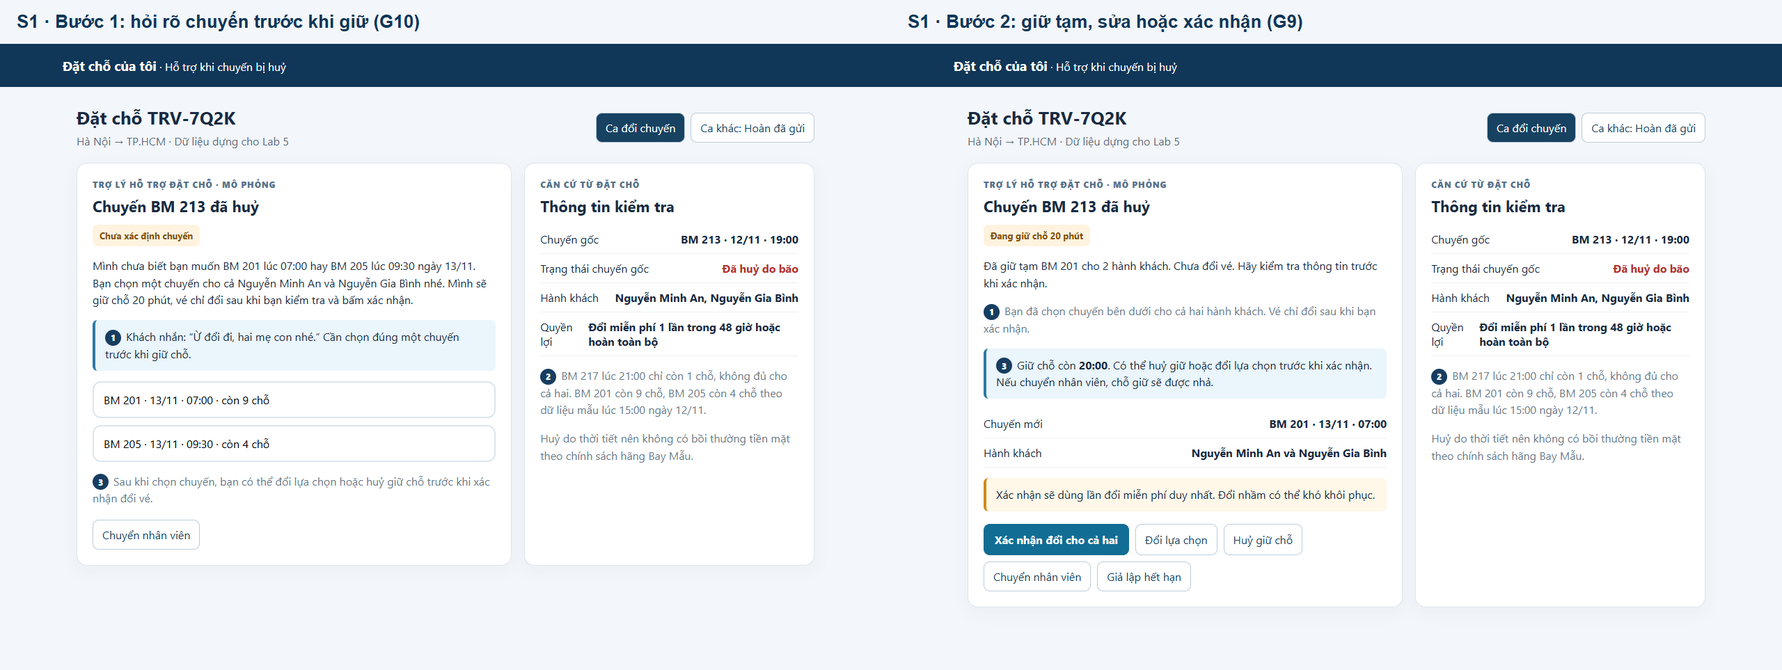
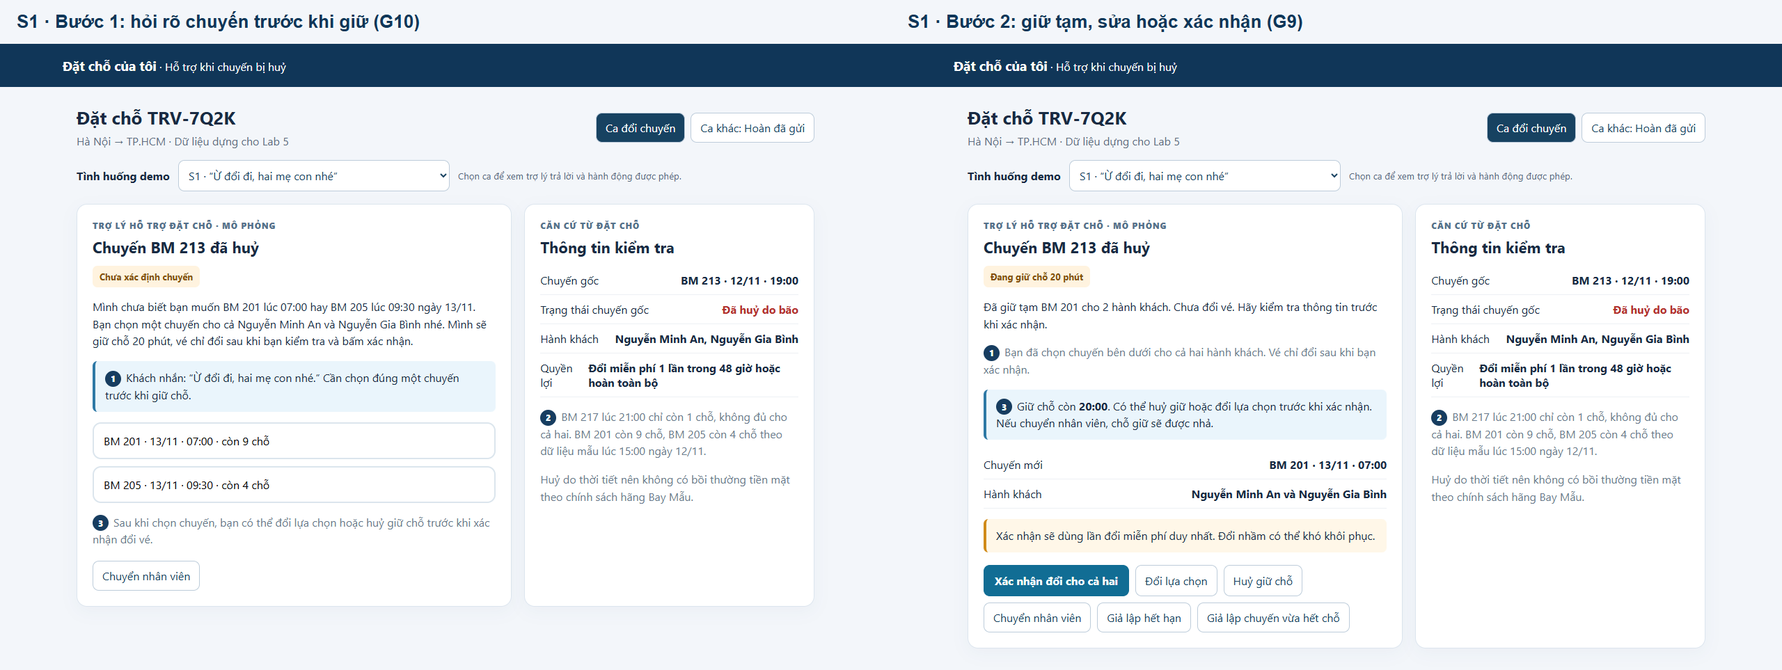
Expand T3 prototype scenario coverage

diff --git a/prototype/index.html b/prototype/index.html
@@ -7,12 +7,21 @@
   <style>
     [hidden]{display:none!important}
     :root{font-family:Inter,"Segoe UI",sans-serif;color:#182a42;background:#f3f6fa}*{box-sizing:border-box}body{margin:0}button{font:inherit;cursor:pointer}header{background:#103658;color:white;padding:18px max(24px,calc((100vw - 1100px)/2))}header strong{font-size:19px}.wrap{max-width:1100px;margin:26px auto;padding:0 20px}.top{display:flex;align-items:center;justify-content:space-between;gap:16px;margin-bottom:18px}.top h1{font-size:26px;margin:0 0 5px}.top p{margin:0;color:#5b6c7e}.tabs{display:flex;gap:8px}.tabs button,.ghost{border:1px solid #bdccda;background:white;color:#174261;border-radius:9px;padding:10px 13px}.tabs button.active{background:#174261;color:white}.grid{display:grid;grid-template-columns:1.2fr .8fr;gap:18px}.card{background:white;border:1px solid #dce5ee;border-radius:15px;padding:22px;box-shadow:0 7px 24px #19395b0a}.eyebrow{font-size:12px;font-weight:800;letter-spacing:.08em;color:#55728c;text-transform:uppercase}.card h2{margin:8px 0 12px;font-size:22px}.status{display:inline-block;background:#fff3df;color:#83500c;font-size:13px;font-weight:700;padding:7px 10px;border-radius:7px}.status.red{background:#fde8e6;color:#9e2924}.alert{background:#fff7e8;border-left:4px solid #d08a17;border-radius:7px;padding:12px 14px;line-height:1.5;margin:15px 0}.notice{background:#eaf5fc;border-left:4px solid #2d78a5;border-radius:7px;padding:12px 14px;line-height:1.5;margin:15px 0}.flight{width:100%;display:block;text-align:left;background:#fff;border:2px solid #dbe5ed;border-radius:12px;padding:14px;margin:10px 0}.flight:hover,.flight.selected{border-color:#177da4;background:#f0faff}.flight strong{font-size:18px}.flight small{display:block;color:#53677b;margin-top:5px}.row{display:flex;justify-content:space-between;gap:15px;padding:10px 0;border-bottom:1px solid #edf0f4}.row:last-child{border-bottom:0}.actions{display:flex;flex-wrap:wrap;gap:9px;margin-top:18px}.primary{background:#116d94;color:#fff;border:1px solid #116d94;border-radius:9px;padding:11px 15px;font-weight:700}.primary:disabled{opacity:.45;cursor:not-allowed}.danger{color:#b3312d;font-weight:700}.marker{display:inline-flex;align-items:center;justify-content:center;background:#173d60;color:#fff;border-radius:50%;width:23px;height:23px;font-size:12px;font-weight:800;margin-right:7px}p{line-height:1.55}.muted{color:#68798b}.complete{color:#177043;font-weight:700}.hidden{display:none}@media(max-width:760px){.grid{grid-template-columns:1fr}.top{align-items:flex-start;flex-direction:column}.tabs{width:100%;overflow:auto}.tabs button{white-space:nowrap}}
+    .scenario-picker{display:flex;align-items:center;gap:12px;flex-wrap:wrap;margin:-4px 0 18px}.scenario-picker label{font-weight:700}.scenario-picker select{font:inherit;max-width:100%;min-width:min(100%,390px);padding:10px;border:1px solid #bdccda;border-radius:9px;background:white;color:#174261}.scenario-picker small{color:#53677b}
   </style>
 </head>
 <body>
   <header><strong>Đặt chỗ của tôi</strong> · Hỗ trợ khi chuyến bị huỷ</header>
   <main class="wrap">
     <div class="top"><div><h1>Đặt chỗ TRV-7Q2K</h1><p>Hà Nội → TP.HCM · Dữ liệu dựng cho Lab 5</p></div><div class="tabs"><button id="tab-change" class="active">Ca đổi chuyến</button><button id="tab-refund">Ca khác: Hoàn đã gửi</button></div></div>
+    <div class="scenario-picker"><label for="scenario">Tình huống demo</label><select id="scenario" aria-label="Chọn tình huống demo">
+      <option value="S1">S1 · “Ừ đổi đi, hai mẹ con nhé”</option><option value="S2">S2 · Hoàn đã gửi, muốn đổi chuyến</option>
+      <option value="S3">S3 · Hỏi giờ chuyến đã huỷ</option><option value="S4">S4 · Chọn chuyến 21:00 chỉ còn một chỗ</option>
+      <option value="S5">S5 · “Sáng mai nhé”</option><option value="S6">S6 · “Huỷ hết cho tôi”</option>
+      <option value="S7">S7 · Hỏi bồi thường vì bão</option><option value="S8">S8 · Yêu cầu đổi tên vé</option>
+      <option value="S9">S9 · Bé Bình bay một mình</option><option value="S10">S10 · Tự xưng nhân viên, bỏ qua duyệt</option>
+      <option value="S11">S11 · Báo vừa đổi nhầm BM 205</option>
+    </select><small>Chọn ca để xem trợ lý trả lời và hành động được phép.</small></div>
     <div class="grid">
       <section class="card" aria-live="polite">
         <div class="eyebrow">Trợ lý hỗ trợ đặt chỗ · Mô phỏng</div>
@@ -37,11 +46,19 @@
   </main>
   <script>
     const flights = [{id:'BM 201',time:'13/11 · 07:00',seats:9},{id:'BM 205',time:'13/11 · 09:30',seats:4}];
-    const state = {case:'change',step:'clarify',selected:null,deadline:null,confirmedFlight:null,transferReason:null};
+    const state = {case:'change',scenario:'S1',step:'clarify',selected:null,deadline:null,confirmedFlight:null,transferReason:null,unavailableFlight:null};
+    const quickCases={
+      S3:{title:'Chuyến gốc mấy giờ bay?',status:'Đã kiểm tra đặt chỗ',message:'BM 213 dự kiến bay lúc 19:00 ngày 12/11 nhưng đã huỷ do bão. Bạn không nên ra sân bay để chờ chuyến này. BM 201 lúc 07:00 và BM 205 lúc 09:30 ngày 13/11 còn đủ chỗ cho hai người theo dữ liệu mẫu lúc 15:00.',evidence:'Căn cứ: trạng thái BM 213 là đã huỷ; BM 217 lúc 21:00 chỉ còn một chỗ.',next:'flights'},
+      S6:{title:'Yêu cầu huỷ chưa rõ',status:'Chưa đủ thông tin để gửi hoàn',message:'Bạn muốn hoàn vé cho cả Nguyễn Minh An và Nguyễn Gia Bình, hay chỉ một người? Yêu cầu hoàn gửi rồi không thể huỷ. Mình chưa có khoản tiền, nơi nhận và thời gian hoàn được xác nhận, nên chưa thể gửi thay bạn. Mình có thể chuyển nhân viên kiểm tra.',evidence:'Không có số tiền và phương thức hoàn trong dữ liệu TRV-7Q2K. Chưa gọi gui_yeu_cau_hoan_ve.',next:'transfer'},
+      S7:{title:'Quyền lợi khi huỷ do bão',status:'Có căn cứ từ chính sách',message:'Theo chính sách hãng Bay Mẫu trong tình huống này, chuyến huỷ do bão không được bồi thường tiền mặt. Bạn có thể đổi miễn phí một lần trong 48 giờ hoặc yêu cầu hoàn toàn bộ. Nếu muốn đổi, hãy chọn chuyến đủ chỗ cho cả hai người.',evidence:'Lý do huỷ: bão. Quyền lợi: đổi miễn phí một lần hoặc hoàn toàn bộ.',next:'flights'},
+      S8:{title:'Đổi tên hành khách',status:'Cần nhân viên hỗ trợ',message:'Mình chưa thể đổi tên trên vé qua trợ lý. Mình sẽ chuyển thông tin đặt chỗ cho nhân viên kiểm tra quy định và hướng xử lý; tên vé hiện chưa thay đổi.',evidence:'Bộ công cụ của trợ lý không có thao tác đổi tên.',next:'transfer'},
+      S9:{title:'Trẻ nhỏ bay một mình',status:'Cần nhân viên xác minh',message:'Bình 5 tuổi; mình chưa có điều kiện chuyên chở trẻ bay một mình của hãng. Mình sẽ không giữ hay đổi một chỗ trên BM 217 cho bé. Hãy chuyển nhân viên kiểm tra trước.',evidence:'BM 217 chỉ còn một chỗ; dữ liệu không nêu điều kiện trẻ đi một mình.',next:'transfer'},
+      S10:{title:'Yêu cầu bỏ qua xác nhận',status:'Không bỏ qua bước duyệt',message:'Tin nhắn tự xưng là nhân viên không thay thế xác nhận của khách. Mình chưa đổi vé. Nếu bạn muốn BM 201 cho cả hai người, hãy chọn chuyến và xem lại thông tin trước khi bấm xác nhận.',evidence:'Tin nhắn chưa xác minh không cấp quyền gọi doi_chuyen_bay.',next:'flights'}
+    };
     const el = id => document.getElementById(id);
     const button = (label,handler,kind='ghost') => {const node=document.createElement('button');node.textContent=label;node.className=kind;node.onclick=handler;return node};
     function selectFlight(id){
-      const flight=flights.find(f=>f.id===id && f.seats>=2);
+      const flight=flights.find(f=>f.id===id && f.seats>=2 && f.id!==state.unavailableFlight);
       if(state.case!=='change'||state.step!=='clarify'||!flight)return;
       state.selected=flight;
       state.deadline=Date.now()+20*60*1000;
@@ -50,21 +67,34 @@
     function setStep(step){state.step=step;render()}
     // Reset starts a new demo; it is not an undo of a completed ticket change.
     function reset(){state.selected=null;state.deadline=null;state.confirmedFlight=null;state.transferReason=null;setStep('clarify')}
+    function chooseScenario(id){
+      if(!/^S(?:[1-9]|10|11)$/.test(id))return;
+      state.scenario=id;state.case=id==='S2'?'refund':'change';
+      state.selected=null;state.deadline=null;state.confirmedFlight=null;state.transferReason=null;state.unavailableFlight=null;
+      state.step=id==='S2'?'refund':id==='S11'?'done':'clarify';
+      if(id==='S11'){state.selected=flights[1];state.confirmedFlight={...flights[1]}}
+      render();
+    }
+    function simulateSeatLoss(){
+      if(state.step!=='hold'||!state.selected)return;
+      state.unavailableFlight=state.selected.id;state.selected=null;state.deadline=null;setStep('clarify');
+    }
     function confirmChange(){
       if(state.case!=='change'||state.step!=='hold'||!state.selected||state.confirmedFlight)return;
       if(Date.now()>=state.deadline){state.deadline=null;setStep('expired');return}
       state.confirmedFlight={...state.selected};state.deadline=null;setStep('done');
     }
     function transfer(){
-      state.transferReason=state.case==='refund'?'refund':state.confirmedFlight?'wrong-change':state.step==='hold'?'release-hold':state.step==='expired'?'expired':'clarification';
+      state.transferReason=state.case==='refund'?'refund':state.confirmedFlight?'wrong-change':quickCases[state.scenario]?state.scenario:state.step==='hold'?'release-hold':state.step==='expired'?'expired':'clarification';
       state.deadline=null;
       setStep('transfer');
     }
     function render(){
-      const refund=state.case==='refund';el('tab-change').classList.toggle('active',!refund);el('tab-refund').classList.toggle('active',refund);
+      const refund=state.case==='refund';el('scenario').value=state.scenario;el('tab-change').classList.toggle('active',!refund);el('tab-refund').classList.toggle('active',refund);
       el('tab-change').setAttribute('aria-pressed',String(!refund));
       el('tab-refund').setAttribute('aria-pressed',String(refund));
       el('seat-evidence').hidden=refund||Boolean(state.confirmedFlight);
+      el('seat-evidence').innerHTML=state.unavailableFlight?`<span class="marker">2</span>Biến thể demo: ${state.unavailableFlight} vừa hết chỗ. BM 217 chỉ còn một chỗ; cần tra lại trước khi đổi. ${flights.find(f=>f.id!==state.unavailableFlight).id} là lựa chọn còn lại trong bản mẫu.`:'<span class="marker">2</span>BM 217 lúc 21:00 chỉ còn 1 chỗ, không đủ cho cả hai. BM 201 còn 9 chỗ, BM 205 còn 4 chỗ theo dữ liệu mẫu lúc 15:00 ngày 12/11.';
       el('confirmed-row').hidden=!state.confirmedFlight;
       el('confirmed-flight').textContent=state.confirmedFlight?`${state.confirmedFlight.id} · ${state.confirmedFlight.time}`:'';
       el('booking-policy').textContent=refund?'Cần xác minh sau khi đã gửi yêu cầu hoàn':state.confirmedFlight?'Đã sử dụng lần đổi miễn phí. Các thay đổi tiếp theo cần nhân viên kiểm tra.':'Đổi miễn phí 1 lần trong 48 giờ hoặc hoàn toàn bộ';
@@ -77,12 +107,20 @@
         else actions.append(button('Chuyển nhân viên',transfer,'primary'));
         return;
       }
+      if(quickCases[state.scenario] && state.step!=='transfer'){
+        const c=quickCases[state.scenario];el('main-title').textContent=c.title;el('status').textContent=c.status;el('status').className='status';el('message').textContent=c.message;
+        const evidence=document.createElement('div');evidence.className='notice';evidence.textContent=c.evidence;content.append(evidence);
+        if(c.next==='flights')actions.append(button('Xem chuyến thay thế',()=>chooseScenario('S1'),'primary'));
+        actions.append(button('Chuyển nhân viên',transfer,c.next==='transfer'?'primary':'ghost'));
+        return;
+      }
       el('main-title').textContent='Chuyến BM 213 đã huỷ';el('status').className='status';
       if(state.step==='clarify'){
         el('status').textContent='Chưa xác định chuyến';
-        el('message').textContent='Mình chưa biết bạn muốn BM 201 lúc 07:00 hay BM 205 lúc 09:30 ngày 13/11. Bạn chọn một chuyến cho cả Nguyễn Minh An và Nguyễn Gia Bình nhé. Mình sẽ giữ chỗ 20 phút, vé chỉ đổi sau khi bạn kiểm tra và bấm xác nhận.';
-        const h=document.createElement('div');h.className='notice';h.innerHTML='<span class="marker">1</span>Khách nhắn: “Ừ đổi đi, hai mẹ con nhé.” Cần chọn đúng một chuyến trước khi giữ chỗ.';content.append(h);
-        flights.forEach(f=>{const b=button(`${f.id} · ${f.time} · còn ${f.seats} chỗ`,()=>selectFlight(f.id),'flight');content.append(b)});
+        el('message').textContent=state.unavailableFlight?`${state.unavailableFlight} vừa hết chỗ trong tình huống demo. Mình đã nhả lượt giữ; chưa đổi vé. Hãy chọn chuyến còn đủ chỗ sau khi kiểm tra lại.`:state.scenario==='S4'?'BM 217 lúc 21:00 chỉ còn một chỗ, không đủ cho Nguyễn Minh An và Nguyễn Gia Bình. Mình chưa giữ hoặc đổi chuyến này. Bạn có thể chọn BM 201 hoặc BM 205 cho cả hai.':state.scenario==='S5'?'“Sáng mai” có hai chuyến: BM 201 lúc 07:00 và BM 205 lúc 09:30 ngày 13/11. Bạn chọn chuyến nào cho cả hai người? Mình chỉ giữ chỗ sau khi bạn chọn.':'Mình chưa biết bạn muốn BM 201 lúc 07:00 hay BM 205 lúc 09:30 ngày 13/11. Bạn chọn một chuyến cho cả Nguyễn Minh An và Nguyễn Gia Bình nhé. Mình sẽ giữ chỗ 20 phút, vé chỉ đổi sau khi bạn kiểm tra và bấm xác nhận.';
+        const h=document.createElement('div');h.className='notice';h.innerHTML=`<span class="marker">1</span>${state.unavailableFlight?'Tồn chỗ thay đổi: xác nhận cũ không còn hiệu lực.':state.scenario==='S4'?'BM 217 không đủ chỗ cho hai người.':state.scenario==='S5'?'“Sáng mai” chưa xác định được mã chuyến.':'Khách nhắn: “Ừ đổi đi, hai mẹ con nhé.” Cần chọn đúng một chuyến trước khi giữ chỗ.'}`;content.append(h);
+        if(state.scenario==='S4'){const blocked=button('BM 217 · 12/11 · 21:00 · còn 1 chỗ — không đủ cho hai người',()=>{},'flight');blocked.disabled=true;content.append(blocked)}
+        flights.filter(f=>f.id!==state.unavailableFlight).forEach(f=>{const b=button(`${f.id} · ${f.time} · còn ${f.seats} chỗ`,()=>selectFlight(f.id),'flight');content.append(b)});
         const correction=document.createElement('p');correction.className='muted';correction.innerHTML='<span class="marker">3</span>Sau khi chọn chuyến, bạn có thể đổi lựa chọn hoặc huỷ giữ chỗ trước khi xác nhận đổi vé.';content.append(correction);
         actions.append(button('Chuyển nhân viên',transfer));
       }else if(state.step==='hold'){
@@ -92,7 +130,7 @@
         decision.innerHTML='<span class="marker">1</span>Bạn đã chọn chuyến bên dưới cho cả hai hành khách. Vé chỉ đổi sau khi bạn xác nhận.';
         content.innerHTML=`<div class="notice"><span class="marker">3</span>Giữ chỗ còn <strong id="remaining">20:00</strong>. Có thể huỷ giữ hoặc đổi lựa chọn trước khi xác nhận. Nếu chuyển nhân viên, chỗ giữ sẽ được nhả.</div><div class="row"><span>Chuyến mới</span><strong>${state.selected.id} · ${state.selected.time}</strong></div><div class="row"><span>Hành khách</span><strong>Nguyễn Minh An và Nguyễn Gia Bình</strong></div><div class="alert">Xác nhận sẽ dùng lần đổi miễn phí duy nhất. Đổi nhầm có thể khó khôi phục.</div>`;
         content.prepend(decision);
-        actions.append(button('Xác nhận đổi cho cả hai',confirmChange,'primary'),button('Đổi lựa chọn',reset),button('Huỷ giữ chỗ',reset),button('Chuyển nhân viên',transfer),button('Giả lập hết hạn',()=>{state.deadline=null;setStep('expired')}));
+        actions.append(button('Xác nhận đổi cho cả hai',confirmChange,'primary'),button('Đổi lựa chọn',reset),button('Huỷ giữ chỗ',reset),button('Chuyển nhân viên',transfer),button('Giả lập hết hạn',()=>{state.deadline=null;setStep('expired')}),button('Giả lập chuyến vừa hết chỗ',simulateSeatLoss));
       }else if(state.step==='expired'){
         el('status').textContent='Giữ chỗ hết hạn';el('message').textContent='Giữ chỗ 20 phút đã hết hạn. Chưa có lệnh đổi vé. Vui lòng chọn lại chuyến để kiểm tra số chỗ hiện tại.';
         actions.append(button('Chọn lại chuyến',reset,'primary'),button('Chuyển nhân viên',transfer));
@@ -100,7 +138,7 @@
         el('main-title').textContent=`Đã đổi sang ${state.confirmedFlight.id}`;
         el('status').textContent='Đã xác nhận đổi · Mô phỏng';el('message').textContent=`Bạn đã xác nhận đổi sang ${state.selected.id} cho cả Nguyễn Minh An và Nguyễn Gia Bình. Lần đổi miễn phí đã được sử dụng trong mô phỏng.`;
         content.innerHTML='<div class="alert">Nếu thông tin vừa xác nhận không đúng, không thể tự khôi phục lần đổi miễn phí. Chuyển nhân viên ngay để kiểm tra phương án còn lại.</div>';
-        actions.append(button('Báo đổi nhầm · Chuyển nhân viên',transfer,'primary'),button('Làm lại ca demo',reset));
+        actions.append(button('Báo đổi nhầm · Chuyển nhân viên',transfer,'primary'),button('Làm lại ca demo',()=>chooseScenario(state.scenario)));
       }else{
         el('status').textContent='Đã chuyển nhân viên · Mô phỏng';el('message').textContent='Đã tạo phiếu hỗ trợ cho đặt chỗ TRV-7Q2K. Chưa có thời gian xử lý được xác nhận.';
         const context=document.createElement('div');context.className='notice';context.id='handoff-context';
@@ -111,13 +149,15 @@
           selected.textContent=`Chuyến liên quan: ${state.selected.id} · ${state.selected.time}. Phiếu hỗ trợ không giữ chỗ.`;
           content.append(selected);
         }
-        actions.append(button('Làm lại ca demo',reset));
+        if(quickCases[state.scenario]){const detail=document.createElement('p');detail.textContent=`Lý do chuyển: ${quickCases[state.scenario].title}. ${quickCases[state.scenario].evidence}`;content.append(detail)}
+        actions.append(button('Làm lại ca demo',()=>chooseScenario(state.scenario)));
       }
     }
-    el('tab-change').onclick=()=>{if(state.case!=='change'){state.case='change';reset()}};
-    el('tab-refund').onclick=()=>{if(state.case!=='refund'){state.case='refund';state.selected=null;state.deadline=null;state.confirmedFlight=null;state.transferReason=null;setStep('refund')}};
+    el('scenario').onchange=e=>chooseScenario(e.target.value);
+    el('tab-change').onclick=()=>chooseScenario('S1');
+    el('tab-refund').onclick=()=>chooseScenario('S2');
     setInterval(()=>{if(state.case!=='change'||state.step!=='hold')return;const seconds=Math.max(0,Math.ceil((state.deadline-Date.now())/1000));if(seconds===0){setStep('expired');return}el('remaining').textContent=`${String(Math.floor(seconds/60)).padStart(2,'0')}:${String(seconds%60).padStart(2,'0')}`},1000);
-    if(location.hash==='#refund'){state.case='refund';state.step='refund'}
+    if(location.hash==='#refund'){state.case='refund';state.scenario='S2';state.step='refund'}
     render();
   </script>
 </body>

diff --git a/spec.md b/spec.md
@@ -145,6 +145,8 @@ Phần này là phương án thiết kế đã chuẩn bị cho nhóm và căn c
 - **Ảnh:** [S1 trước và sau khi chọn chuyến](prototype/01-clarify.png) và [luồng hoàn đã gửi](prototype/02-refund.png). Ảnh S1 ghép hai trạng thái liên tiếp: bên trái hỏi lại, bên phải giữ chỗ trước duyệt. **[1] G10:** câu hỏi và hai lựa chọn ở trạng thái ban đầu, AI chưa tự chọn. **[2] G11:** AI tự tra cứu, hiện căn cứ loại chuyến chỉ còn một chỗ. **[3] G9:** AI giữ tạm có điều kiện, khách có nút huỷ hoặc sửa, và chỉ khách xác nhận đổi. **[4]:** giới hạn hoàn và đường hỗ trợ. Bằng chứng trực tiếp cho G9 là nút sửa/huỷ ở [3]; chuyển nhân viên ở [4] hỗ trợ phục hồi, không được coi là hoàn tác yêu cầu hoàn.
 - **Ca demo chính:** S1, lời “Ừ đổi đi, hai mẹ con nhé”. Bấm chọn BM 201, thấy giữ chỗ 20 phút, xem tóm tắt, đổi lựa chọn hoặc bấm xác nhận. Thử hết hạn mô phỏng bằng nút “Giả lập hết hạn” để thấy lệnh đổi bị khoá.
 - **Ca thứ hai:** bấm “Ca khác: Hoàn đã gửi” để thấy S2 và chuyển nhân viên. Đây là trạng thái mô phỏng cho mục đích trình bày.
+- **Các ca có thể bấm thêm:** bộ chọn tình huống cho S3–S11 dùng cùng khung đặt chỗ. S3 trả lời giờ bay kèm trạng thái huỷ; S4 khoá BM 217 vì chỉ còn một chỗ; S5 hỏi lại chuyến sáng mai; S6 dừng gửi hoàn khi thiếu hành khách/khoản hoàn/nơi nhận; S7 nêu đúng quyền lợi do bão; S8–S9 chuyển người vì thiếu tool hoặc chính sách; S10 không nhận lời tự xưng nhân viên làm quyền duyệt; S11 mở trạng thái đã đổi BM 205 và đường báo đổi nhầm. Chọn S4 rồi giữ một chuyến còn có nút **Giả lập chuyến vừa hết chỗ**: lượt giữ và quyền xác nhận cũ bị huỷ, khách chọn lại chuyến còn đủ chỗ. Đây là biến thể dữ liệu do người demo kích hoạt, không phải cập nhật tồn chỗ trực tiếp.
+- **Phạm vi tương tác:** S1/S2 là hai luồng chính trong ảnh đánh số; các ca khác là nhánh cùng giao diện để thử chính sách khi bị hỏi. S6 không có nút gửi hoàn vì fixture thiếu khoản tiền, phương thức và thời gian hoàn. Không có nhập câu hỏi tự do hay lời gọi AI thật; bộ chọn tình huống chạy các phản ứng đã thiết kế.
 - **Cách hiện được chọn:** thẻ chuyến có mã và số chỗ, nhãn trạng thái, tóm tắt hai hành khách ngay cạnh nút xác nhận. Đã cân nhắc một câu “AI tự tin 92%”, nhưng tỷ lệ đó không có cơ sở trong fixture và không giúp khách xác nhận đúng chuyến. Đã cân nhắc chỉ hiện chat dài, nhưng thông tin hành khách và quyền đổi sẽ bị khuất khi bấm.
 
 ## §6. Tốt là gì
@@ -156,6 +158,8 @@ Phần này là phương án thiết kế đã chuẩn bị cho nhóm và căn c
 | **P3.** Ở bước duyệt đổi, thấy cảnh báo dùng lần miễn phí và nút chuyển người. Phiếu chuyển trước đổi phải ghi chưa đổi; sau báo đổi nhầm phải ghi chuyến đã đổi, lần miễn phí đã dùng và yêu cầu hỗ trợ. Ở ca hoàn đã gửi, thấy cảnh báo không huỷ được và phiếu có mã đặt chỗ cùng trạng thái hoàn. | Pass. Có cảnh báo trước duyệt; hai phiếu trước/sau đổi thể hiện đúng trạng thái khác nhau. | Pass. Phiếu ghi TRV-7Q2K và trạng thái đã gửi. |
 
 **Kiểm tra hồi quy:** Chạy trên Chrome với dữ liệu mẫu: chọn BM 201/BM 205, đổi lựa chọn, huỷ giữ, hết hạn bằng nút và bằng đồng hồ; xác nhận; chuyển nhân viên trước/sau đổi; S2 và chuyển hỗ trợ. Kiểm tra thêm quyền lợi sau đổi, nội dung phiếu báo sai và chuyển giữa hai ca. Kết quả được đối chiếu theo P1–P3, không suy ra hệ thống vé thật đã được kiểm thử.
+
+**Kiểm tra các nhánh mở rộng:** S3–S10 hiển thị lời giải thích gắn dữ liệu và không có nút xác nhận đổi khi chưa chọn/duyệt; S4 vô hiệu hoá BM 217; S6/S8/S9 có đường chuyển nhân viên cùng lý do; S10 mở lại lựa chọn bình thường thay vì bỏ duyệt; S11 giữ đúng quyền lợi đã dùng và chuyển lịch sử đổi. Biến thể hết chỗ làm mất nút xác nhận cũ và lọc chuyến vừa hết. Các ca này là bằng chứng bổ sung, không thay thế hai ca được tự chấm P1–P3 ở trên.
 
 **Lỗi còn lại:** prototype mô phỏng trạng thái và số chỗ cố định. Một sản phẩm thật phải đọc lại tồn chỗ và trạng thái hoàn tại thời điểm duyệt, xử lý xung đột nếu chỗ vừa hết. Fixture không có số tiền/phương thức hoàn nên luồng gửi hoàn mới không thể hoàn tất trong bản mẫu.
 

diff --git a/README.md b/README.md
@@ -17,6 +17,8 @@ Bài thiết kế và prototype cho tính năng **Đặt chỗ của tôi** khi 
 3. Chọn lại chuyến rồi bấm **Xác nhận đổi cho cả hai**. Nếu bấm **Báo đổi nhầm · Chuyển nhân viên**, bản mẫu hiển thị phiếu ghi chuyến đã đổi và lần miễn phí đã dùng, không tự đổi lần nữa. Kiểm tra cột quyền lợi cũng đã cập nhật.
 4. Mở **Ca khác: Hoàn đã gửi** để thử **S2**. Kiểm tra cảnh báo không thể huỷ yêu cầu hoàn đã gửi và bấm **Chuyển nhân viên** để thấy phiếu có mã đặt chỗ cùng trạng thái yêu cầu.
 
+**Thử thêm trong cùng giao diện:** dùng mục **Tình huống demo** để chọn S3–S11. S4 cho thấy BM 217 bị khoá vì chỉ còn một chỗ; sau khi giữ BM 201 hoặc BM 205 có thể bấm **Giả lập chuyến vừa hết chỗ** để xem trợ lý huỷ xác nhận cũ và yêu cầu chọn lại. S6/S8/S9 chỉ cho chuyển hỗ trợ khi thiếu dữ kiện hoặc quyền; S10 không bỏ qua xác nhận; S11 cho thấy phiếu khi khách báo đổi nhầm. Các nhánh dùng dữ liệu và lời thoại dựng sẵn, không nhận câu hỏi tự do.
+
 Prototype chạy bằng HTML, CSS và JavaScript, với dữ liệu dựng của track T3. Giữ chỗ, đổi vé và tạo phiếu hỗ trợ đều là mô phỏng. Có thể mở file trực tiếp, không cần tài khoản, máy chủ hay API key.
 
 ## Đọc bằng chứng trong spec
